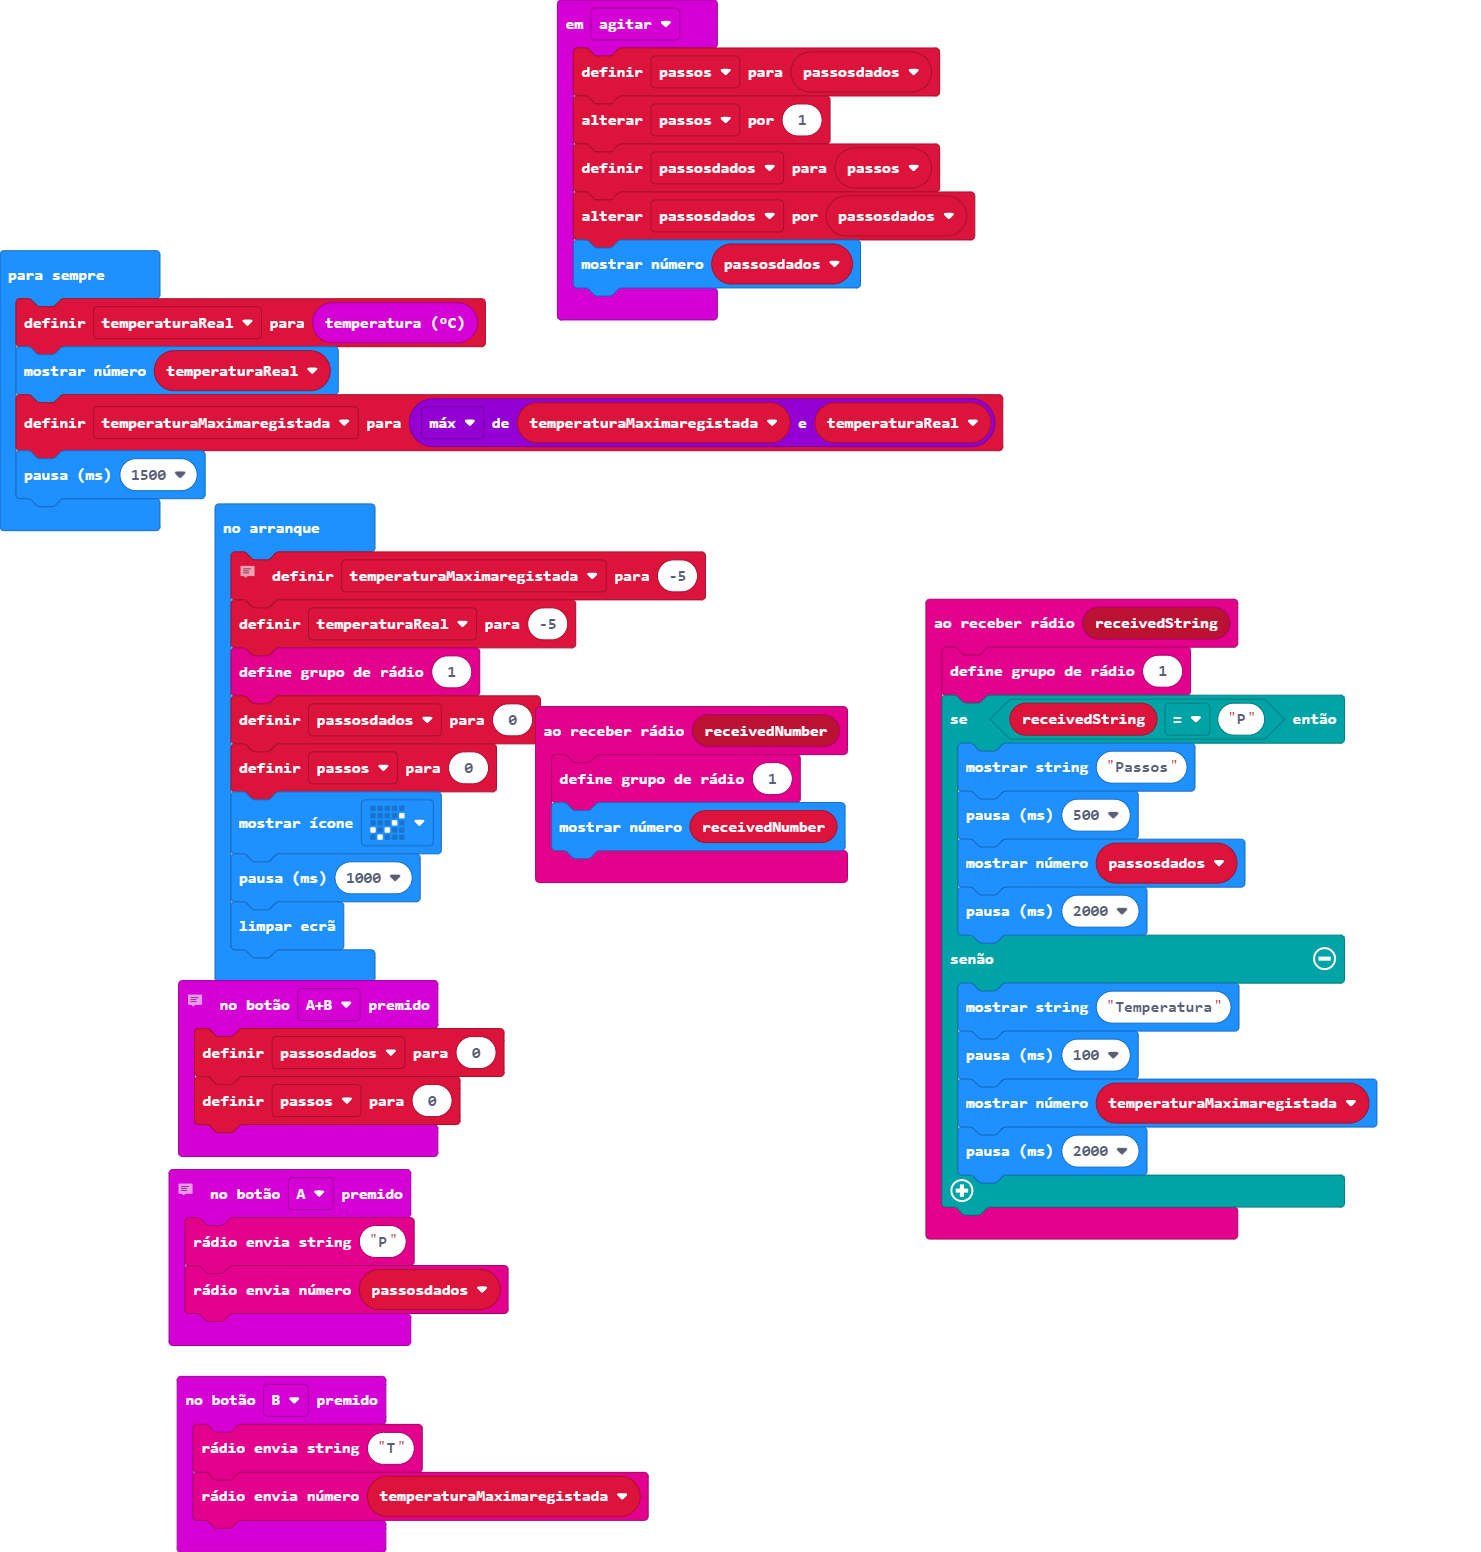
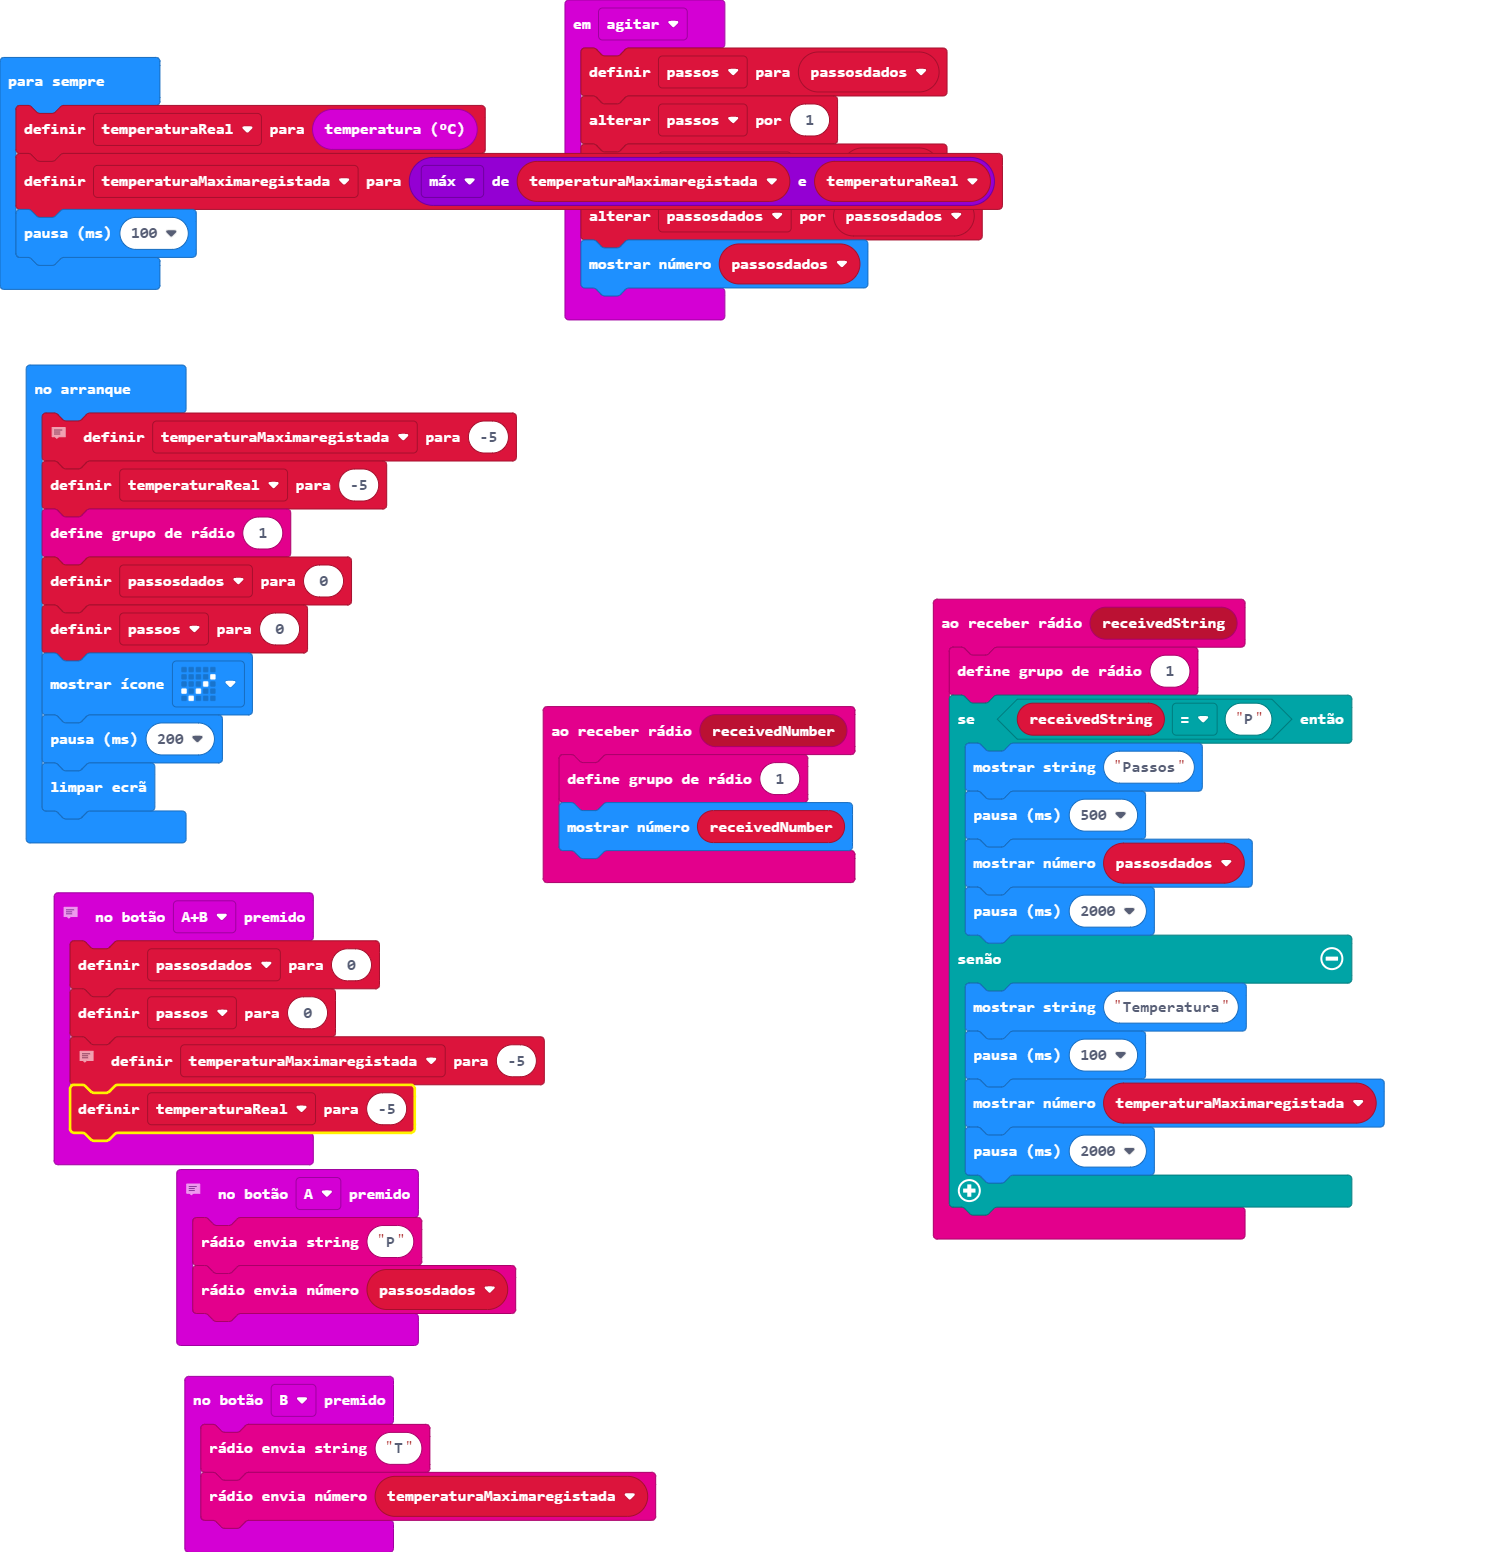
Update main.blocks, main.ts

diff --git a/main.ts b/main.ts
@@ -18,6 +18,11 @@ input.onGesture(Gesture.Shake, function () {
 input.onButtonPressed(Button.AB, function () {
     passosdados = 0
     passos = 0
+    // Definido grupo de radio para 1 de forma a sincronizar apenas com esse grupo Radio.
+    // Inicialização de variáveis globais.
+    // Visualização de símbolo para verificação inicial.
+    temperaturaMaximaregistada = -5
+    temperaturaReal = -5
 })
 radio.onReceivedString(function (receivedString) {
     radio.setGroup(1)
@@ -39,21 +44,21 @@ input.onButtonPressed(Button.B, function () {
 })
 let passos = 0
 let passosdados = 0
+let temperaturaReal = 0
 let temperaturaMaximaregistada = 0
 // Definido grupo de radio para 1 de forma a sincronizar apenas com esse grupo Radio.
 // Inicialização de variáveis globais.
 // Visualização de símbolo para verificação inicial.
 temperaturaMaximaregistada = -5
-let temperaturaReal = -5
+temperaturaReal = -5
 radio.setGroup(1)
 passosdados = 0
 passos = 0
 basic.showIcon(IconNames.Yes)
-basic.pause(1000)
+basic.pause(200)
 basic.clearScreen()
 basic.forever(function () {
     temperaturaReal = input.temperature()
-    basic.showNumber(temperaturaReal)
     temperaturaMaximaregistada = Math.max(temperaturaMaximaregistada, temperaturaReal)
-    basic.pause(1500)
+    basic.pause(100)
 })
